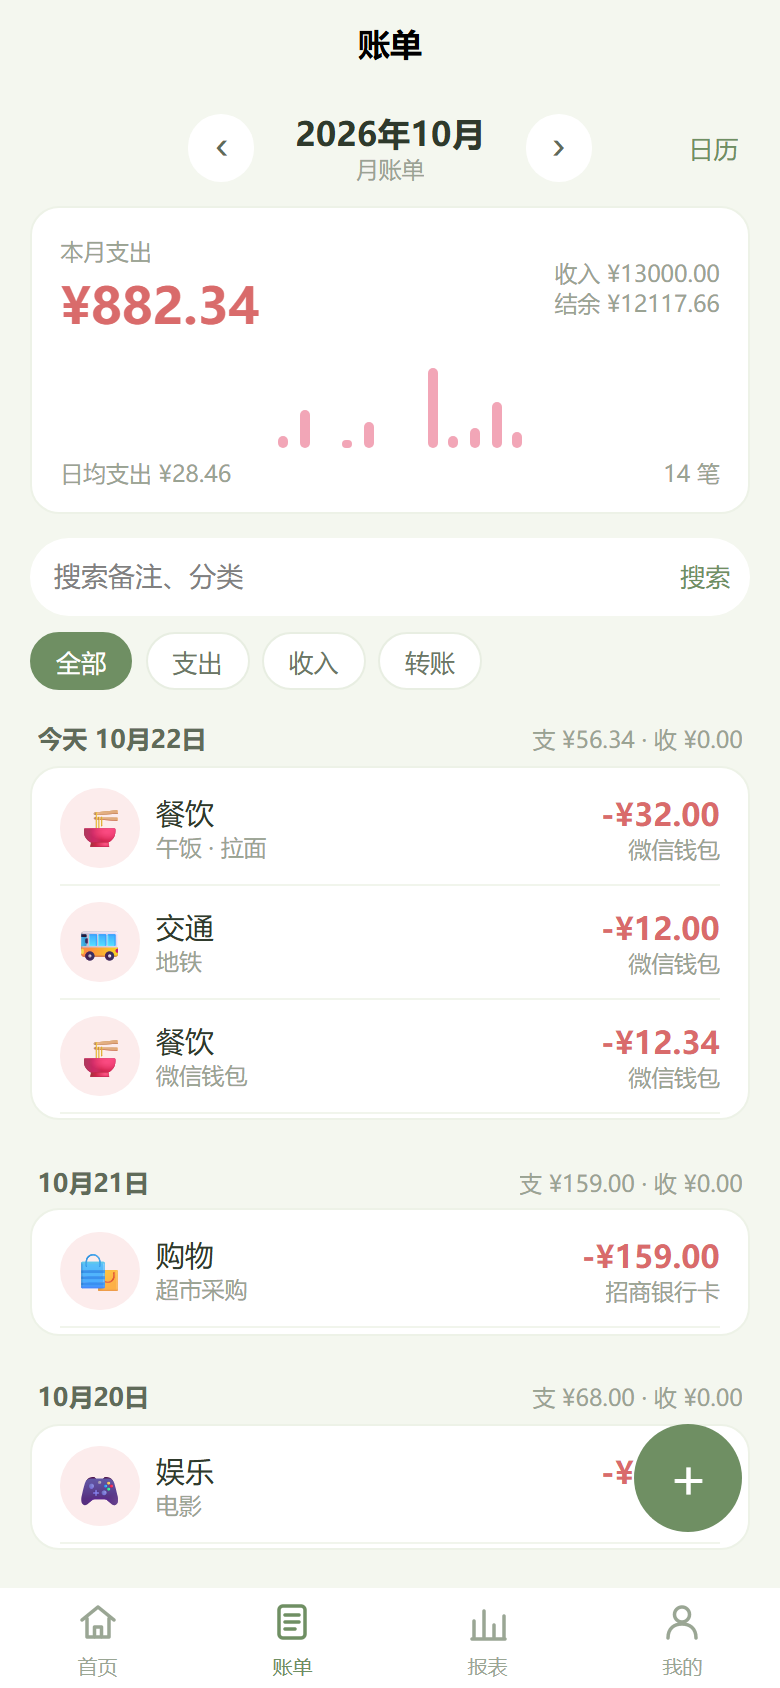
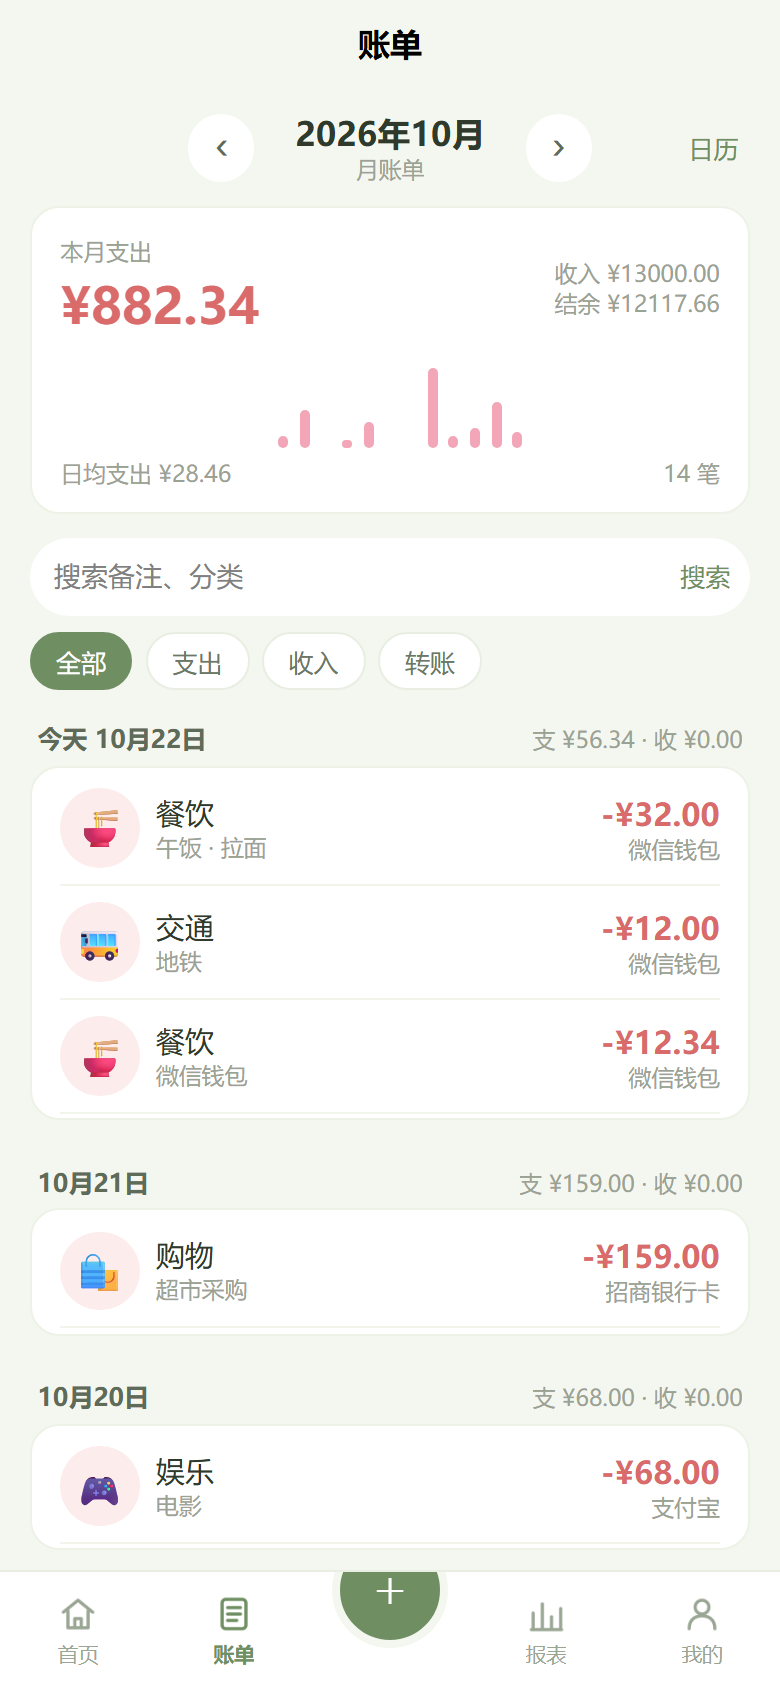
feat(frontend): 自定义底部导航与中央凸起记账按钮

diff --git a/dango-frontend/README.md b/dango-frontend/README.md
@@ -8,7 +8,7 @@ uni-app x **蒸汽模式**（HBuilderX 项目根目录）。Vue3 组合式 API +
 
 | 页面 | 功能 |
 |---|---|
-| 首页 | 本月支出大卡片、收入/结余/预算剩余、记一笔、最近三天账单、日历/资产/报表/分类入口 |
+| 首页 | 本月支出大卡片、收入/结余/预算剩余、最近三天账单、日历/资产/报表/分类入口 |
 | 账单 | 月份切换、月度收支 + 每日柱状图、搜索、全部/支出/收入/转账筛选、按日分组、分页加载 |
 | 报表 | 支出/收入分类占比、分类排行、近 6 个月趋势、月度预算设置 |
 | 记一笔 | 支出/收入/转账、分类图标网格、自定义数字键盘、常用备注、再记 / 保存 |
@@ -16,6 +16,8 @@ uni-app x **蒸汽模式**（HBuilderX 项目根目录）。Vue3 组合式 API +
 | 资产 | 净资产 / 总资产 / 总负债、添加/编辑/删除账户、按流水重算 |
 | 分类 | 支出/收入分类网格、自定义图标和颜色、长按删除 |
 | 我的 | 登录/注册、本月概览、资产/分类/预算/日历入口、退出登录 |
+
+底部导航是自定义组件 `components/DangoTabBar.uvue`：首页、账单、中间凸起「＋」、报表、我的；「＋」用 `navigateTo` 打开记一笔，其余用 `reLaunch` 切换。
 
 界面截图见 [docs/ui](../docs/ui/README.md)。
 
@@ -59,6 +61,7 @@ export const API_BASE = 'http://127.0.0.1:8000'
 
 ```
 pages/            8 个页面（.uvue，含 calendar）
+components/       DangoTabBar.uvue（自定义底栏 + 中央凸起按钮）
 stores/           Pinia：auth / ledger / stats / budget
 services/api.uts  uni.request 封装 + 全部接口
 utils/            money（元⇄分）、date（月份/日历工具）

diff --git a/README.md b/README.md
@@ -24,7 +24,7 @@ dango-ledger/
 
 参考「小青账」的轻量卡片式布局，结合团子图标的抹茶绿 / 樱花粉 / 乳白：
 
-- 首页：本月支出大卡片、预算剩余、记一笔、最近账单
+- 首页：本月支出大卡片、预算剩余、快捷入口、最近账单
 - 账单：月切换、每日柱状图、搜索、类型筛选、按日分组
 - 记一笔：分类图标网格、固定数字键盘、常用备注、再记 / 保存
 - 报表：支出/收入分类占比与排行、近 6 个月趋势、预算设置
@@ -32,6 +32,7 @@ dango-ledger/
 - 资产：净资产 / 总资产 / 总负债、账户增删改
 - 分类：图标网格、自定义颜色、长按删除
 - 我的：登录注册、本月概览、功能入口
+- 底部导航：自定义底栏，中间凸起「＋」直接进入记一笔
 
 ![首页](docs/ui/home.png)
 

diff --git a/docs/ui/README.md b/docs/ui/README.md
@@ -1,6 +1,6 @@
 # 界面预览
 
-当前前端按「小青账」的轻量卡片式布局重做，配色来自团子图标：抹茶绿、樱花粉、乳白。以下截图由 H5 构建 + Playwright 实际渲染，数据为本地演示数据。
+当前前端按「小青账」的轻量卡片式布局重做，配色来自团子图标：抹茶绿、樱花粉、乳白。底部导航为自定义组件，中间凸起「＋」直接记一笔。以下截图由 H5 构建 + Playwright 实际渲染，数据为本地演示数据。
 
 ## 首页
 
